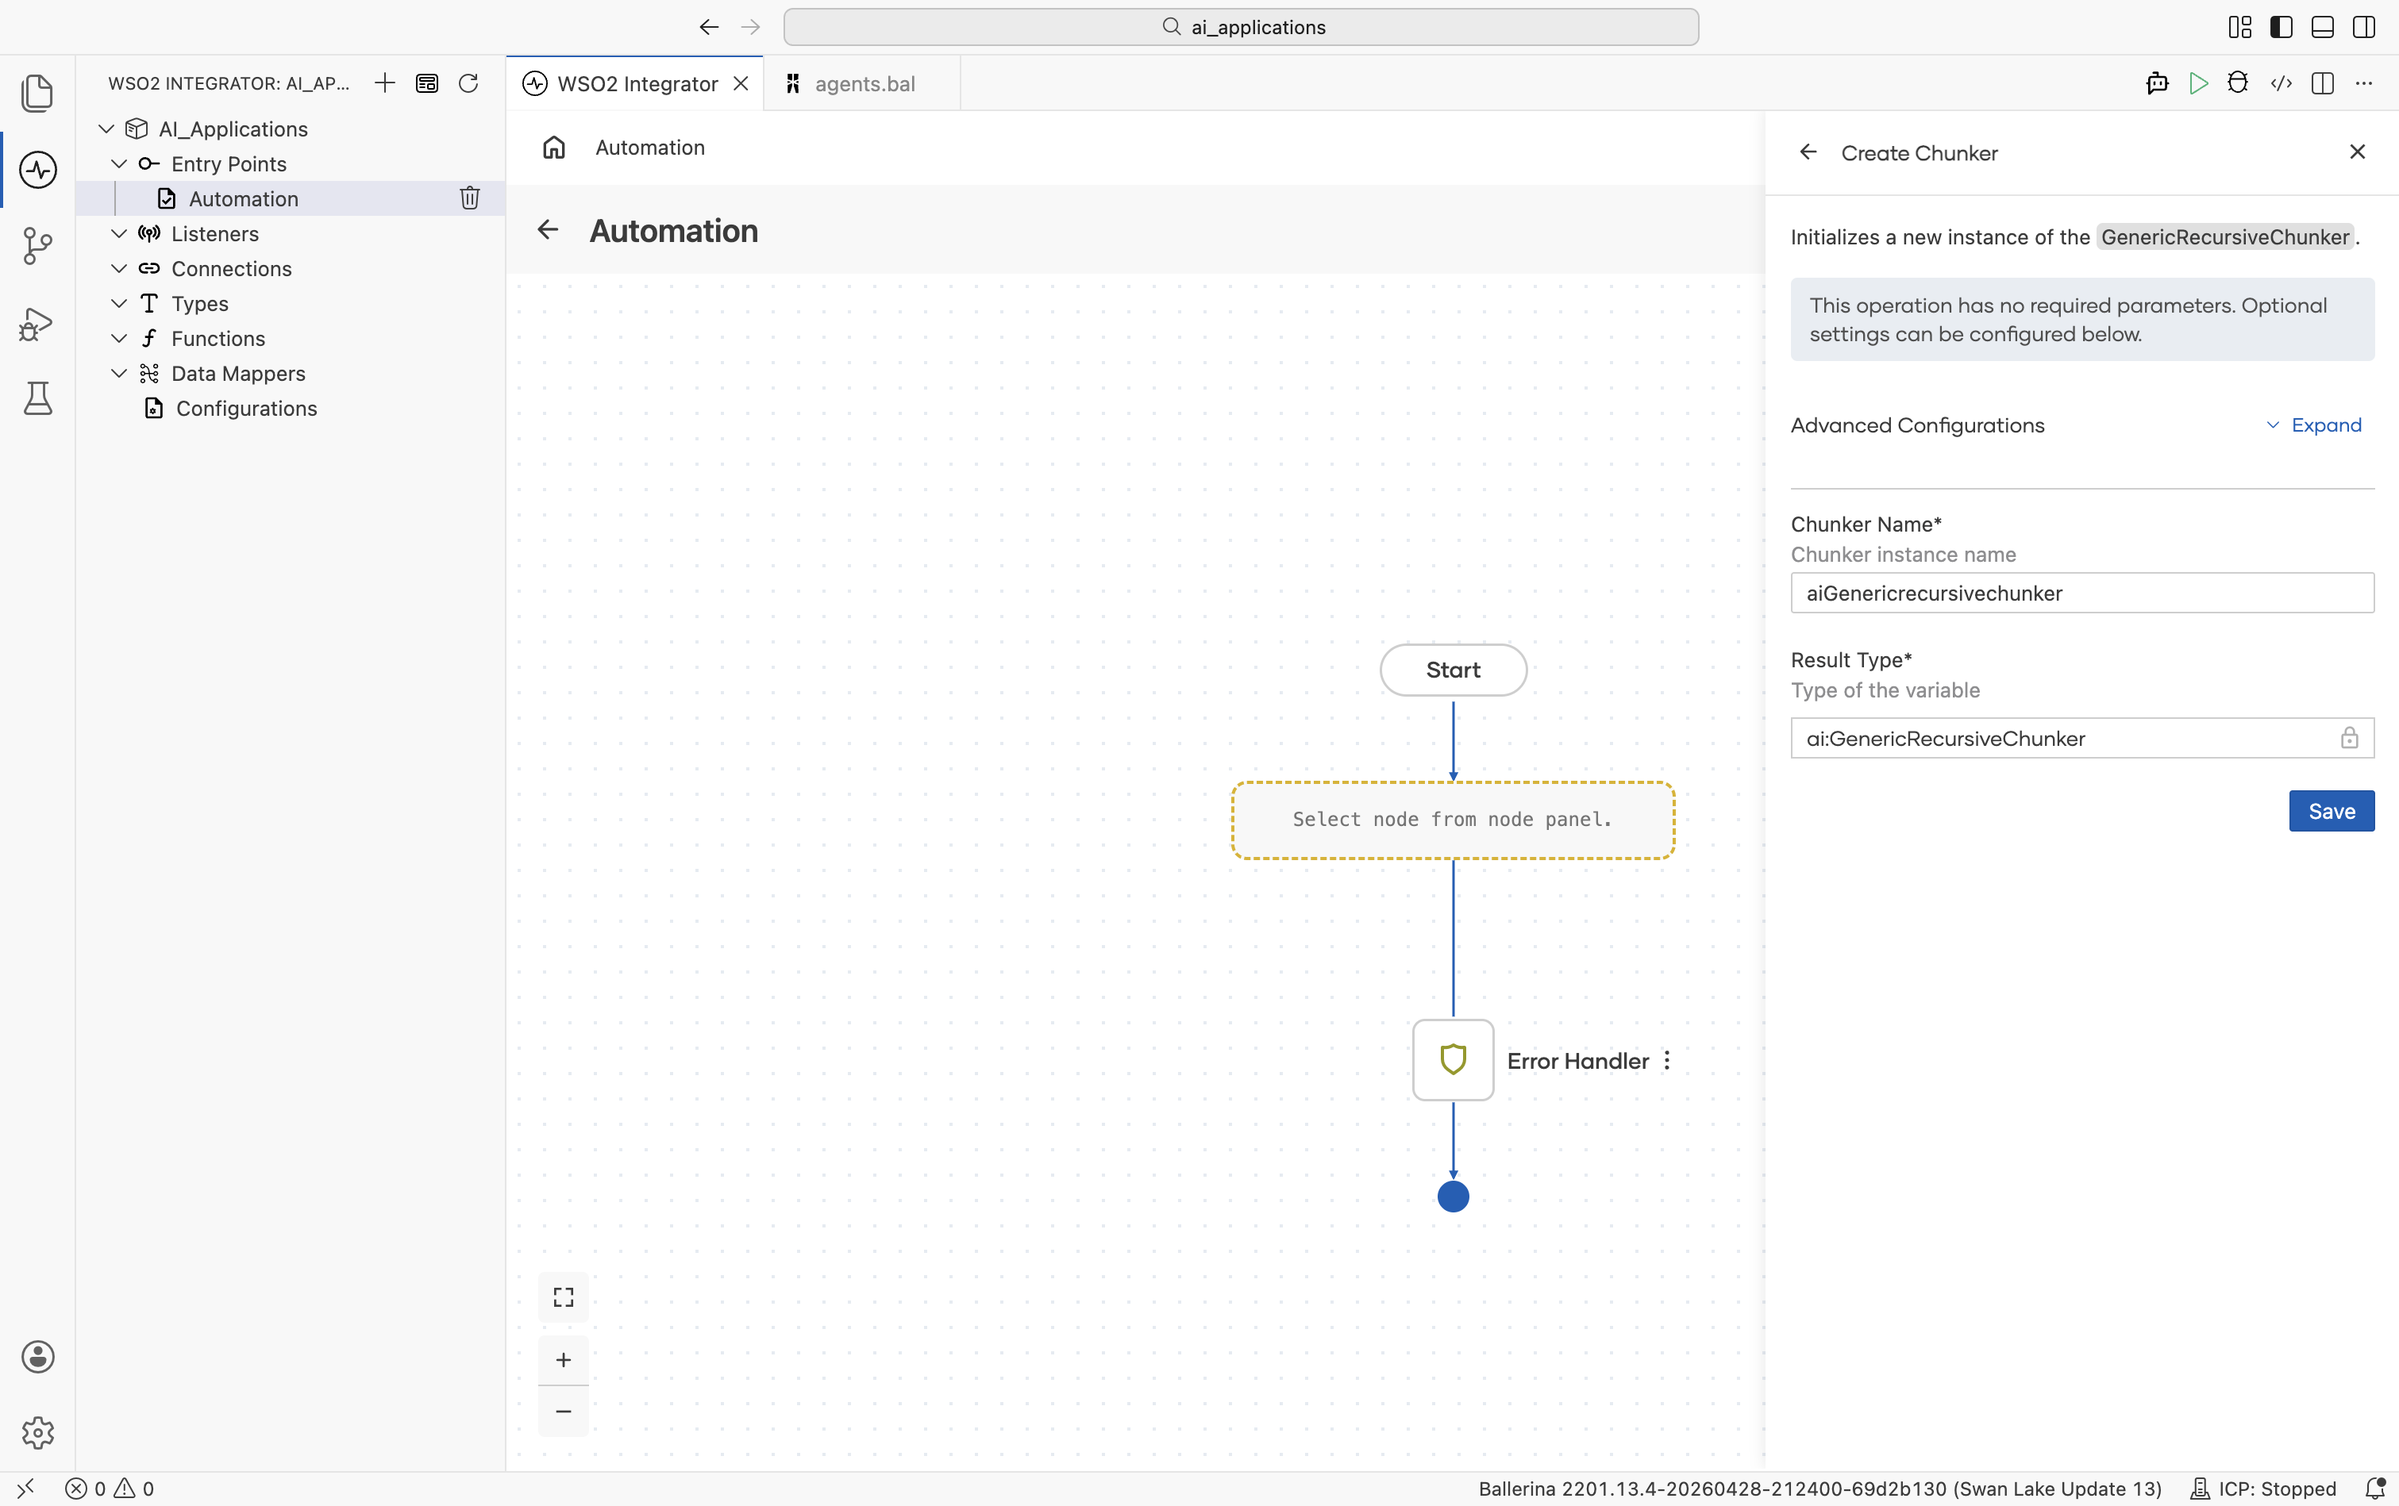
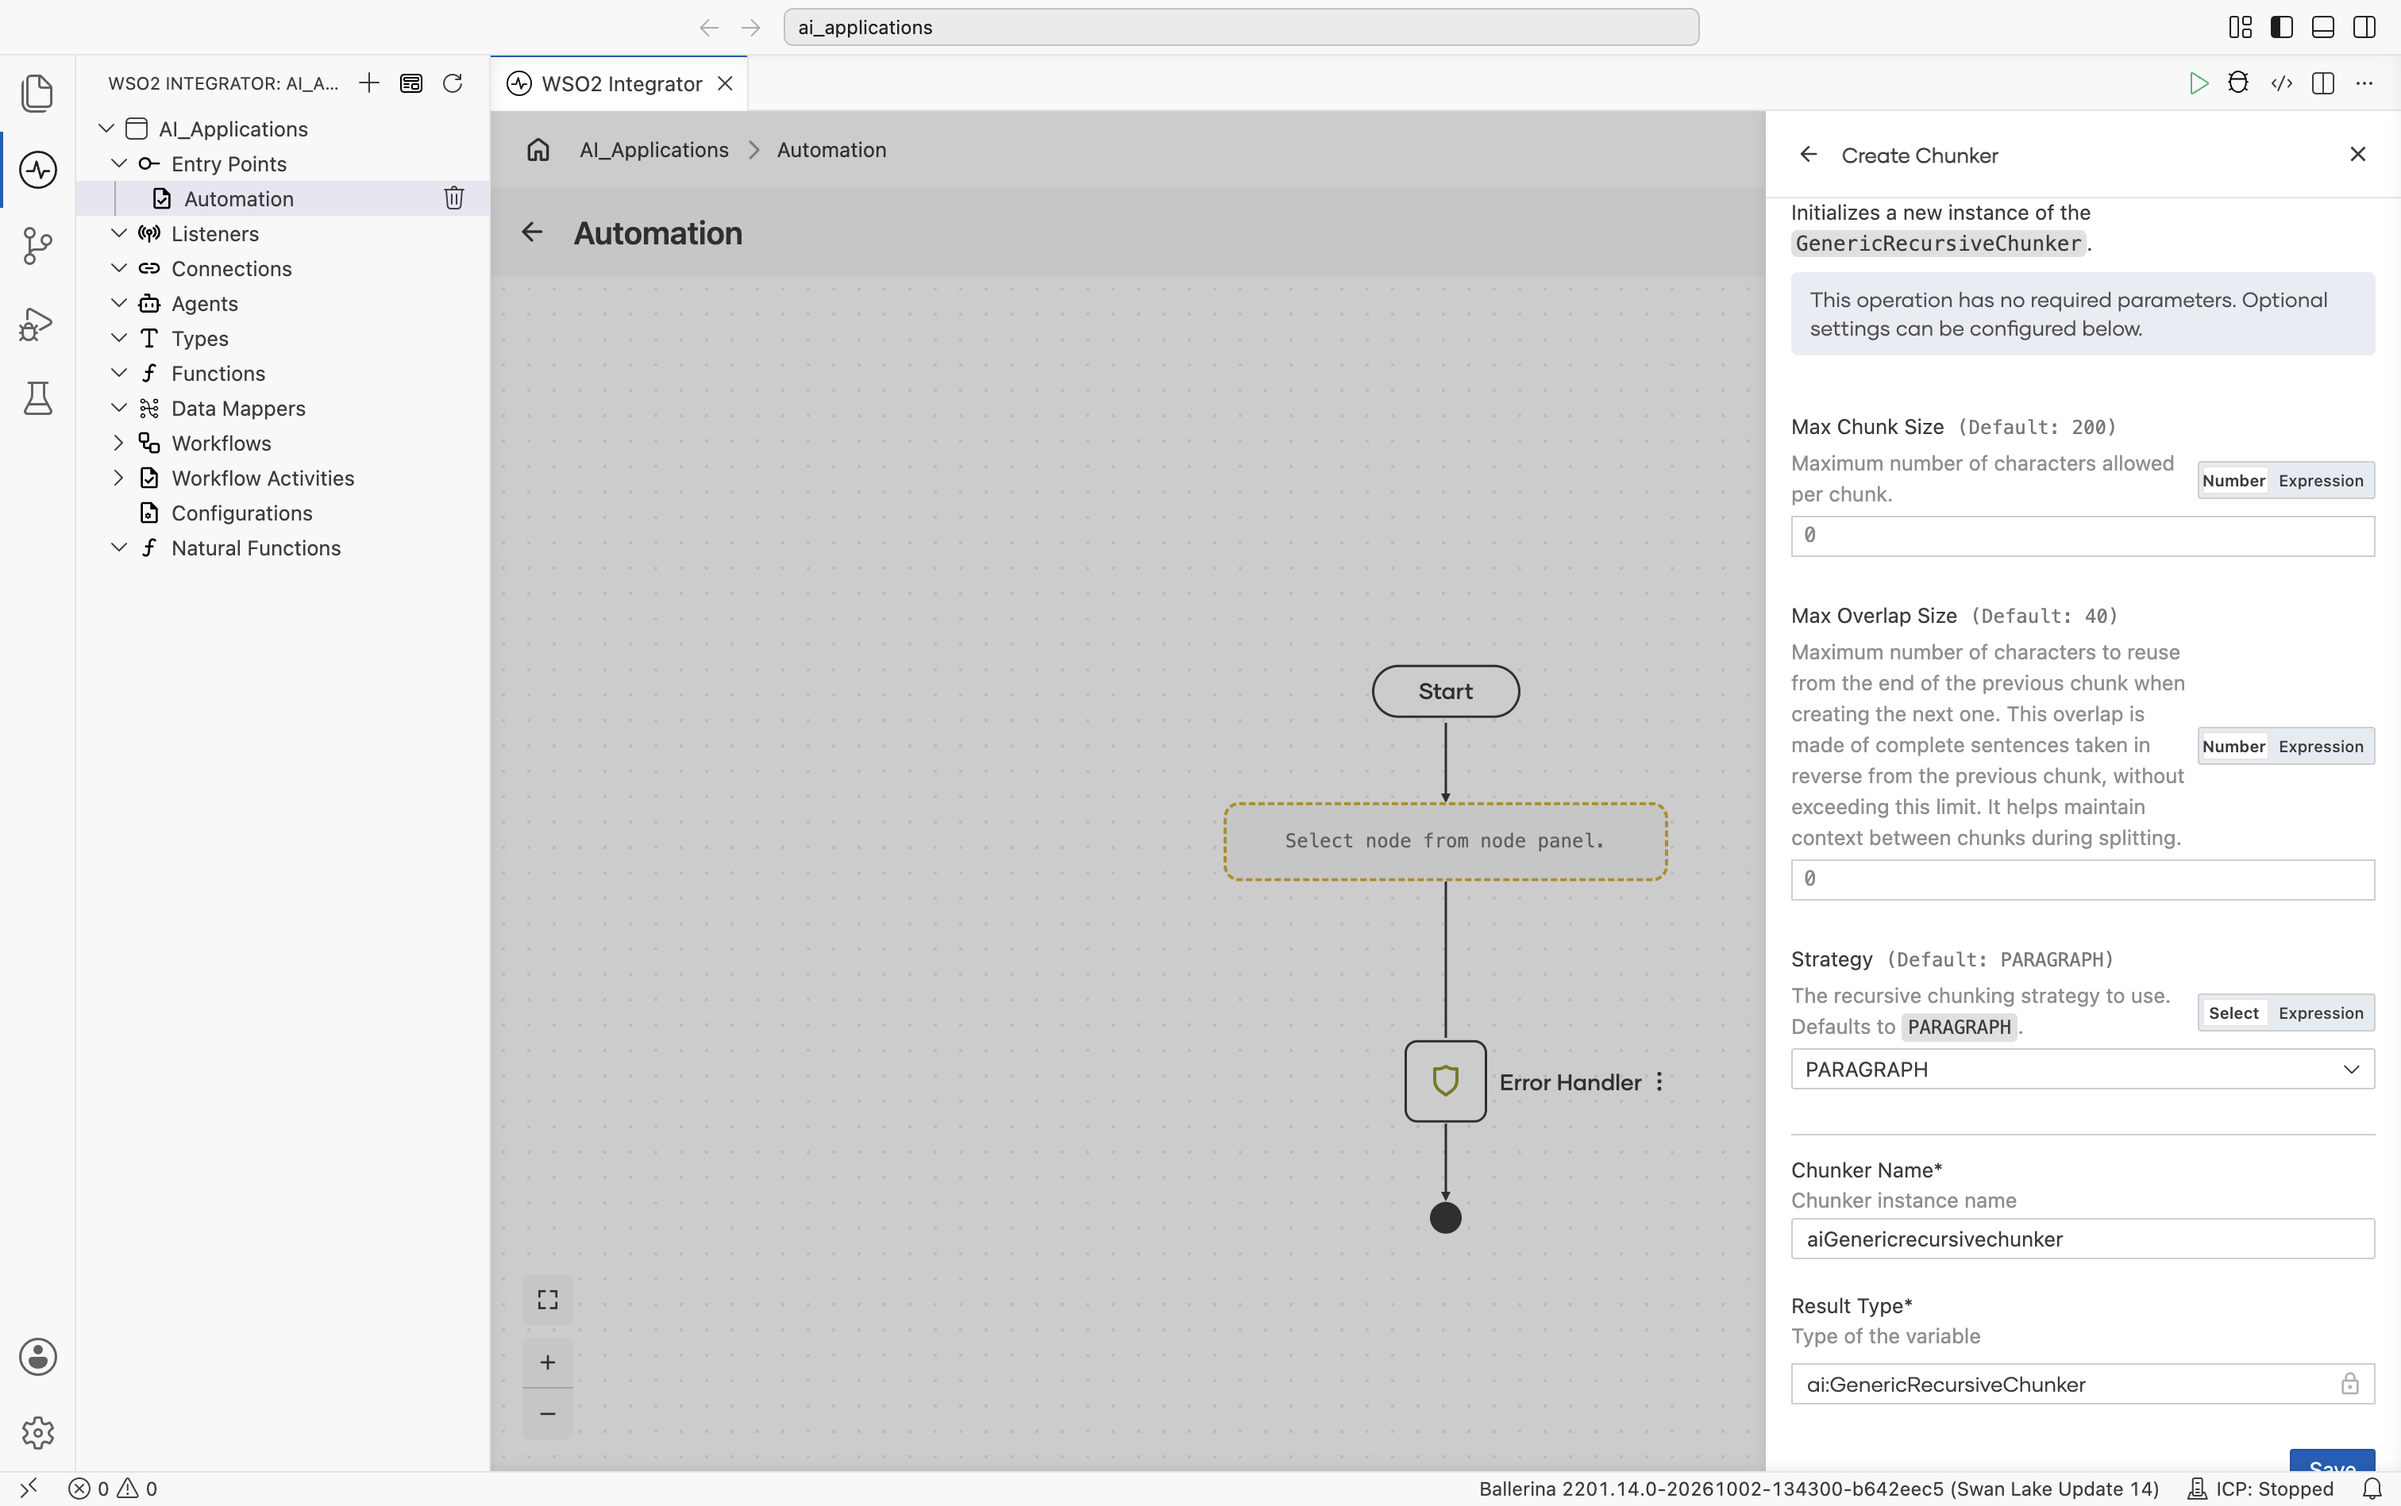
docs(genai): update Chunkers reference with new UI screenshots

diff --git a/en/versioned_docs/version-5.0.0/genai/develop/components/chunkers.md b/en/versioned_docs/version-5.0.0/genai/develop/components/chunkers.md
@@ -55,13 +55,9 @@ For plain text. Begins splitting using the chosen strategy and recursively falls
 
 ### Create form
 
-![Create Chunker form for Generic Recursive showing the banner 'This operation has no required parameters. Optional settings can be configured below.' Advanced Configurations Expand link, Chunker Name aiGenericrecursivechunker, Result Type ai:GenericRecursiveChunker.](/img/genai/develop/components/chunkers/02-generic-recursive-basic.png)
+![Create Chunker form for Generic Recursive. Header reads 'Initializes a new instance of the GenericRecursiveChunker.' Banner: 'This operation has no required parameters. Optional settings can be configured below.' Fields: Max Chunk Size (default 200), Max Overlap Size (default 40), Strategy (default PARAGRAPH), Chunker Name (default aiGenericrecursivechunker), Result Type (locked to ai:GenericRecursiveChunker). Save button.](/img/genai/develop/components/chunkers/02-generic-recursive-basic.png)
 
 No required fields. Sensible defaults work for most prose.
-
-### Advanced configurations
-
-![Generic Recursive Chunker Create form with Advanced Configurations expanded showing Max Chunk Size (default 200), Max Overlap Size (default 40), Strategy (default PARAGRAPH).](/img/genai/develop/components/chunkers/03-generic-recursive-advanced.png)
 
 | Field | Default | Available values | What it controls |
 |---|---|---|---|
@@ -87,13 +83,9 @@ Header-aware chunker for Markdown. Starts at heading level `##` and walks down b
 
 ### Create form
 
-![Create Chunker form for Markdown showing the banner 'This operation has no required parameters. Optional settings can be configured below.' Advanced Configurations Expand link, Chunker Name aiMarkdownchunker, Result Type ai:MarkdownChunker.](/img/genai/develop/components/chunkers/04-markdown-basic.png)
+![Create Chunker form for Markdown. Header reads 'Initializes a new instance of the MarkdownChunker.' Banner: 'This operation has no required parameters. Optional settings can be configured below.' Fields: Max Chunk Size (default 200), Max Overlap Size (default 40), Strategy (default MARKDOWN_HEADER), Chunker Name (default aiMarkdownchunker), Result Type (locked to ai:MarkdownChunker). Save button.](/img/genai/develop/components/chunkers/03-markdown-basic.png)
 
 No required fields.
-
-### Advanced configurations
-
-![Markdown Chunker Create form with Advanced Configurations expanded showing Max Chunk Size (default 200), Max Overlap Size (default 40), Strategy (default MARKDOWN_HEADER).](/img/genai/develop/components/chunkers/05-markdown-advanced.png)
 
 | Field | Default | Available values | What it controls |
 |---|---|---|---|
@@ -116,13 +108,9 @@ Tag-aware chunker for HTML. Starts at heading tags and falls back through paragr
 
 ### Create form
 
-![Create Chunker form for HTML showing the banner 'This operation has no required parameters. Optional settings can be configured below.' Advanced Configurations Expand link, Chunker Name aiHtmlchunker, Result Type ai:HtmlChunker.](/img/genai/develop/components/chunkers/06-html-basic.png)
+![Create Chunker form for HTML. Header reads 'Initializes a new instance of the HtmlChunker.' Banner: 'This operation has no required parameters. Optional settings can be configured below.' Fields: Max Chunk Size (default 200), Max Overlap Size (default 40), Strategy (default HTML_HEADER), Chunker Name (default aiHtmlchunker), Result Type (locked to ai:HtmlChunker). Save button.](/img/genai/develop/components/chunkers/04-html-basic.png)
 
 No required fields.
-
-### Advanced configurations
-
-![HTML Chunker Create form with Advanced Configurations expanded showing Max Chunk Size (default 200), Max Overlap Size (default 40), Strategy (default HTML_HEADER).](/img/genai/develop/components/chunkers/07-html-advanced.png)
 
 | Field | Default | Available values | What it controls |
 |---|---|---|---|
